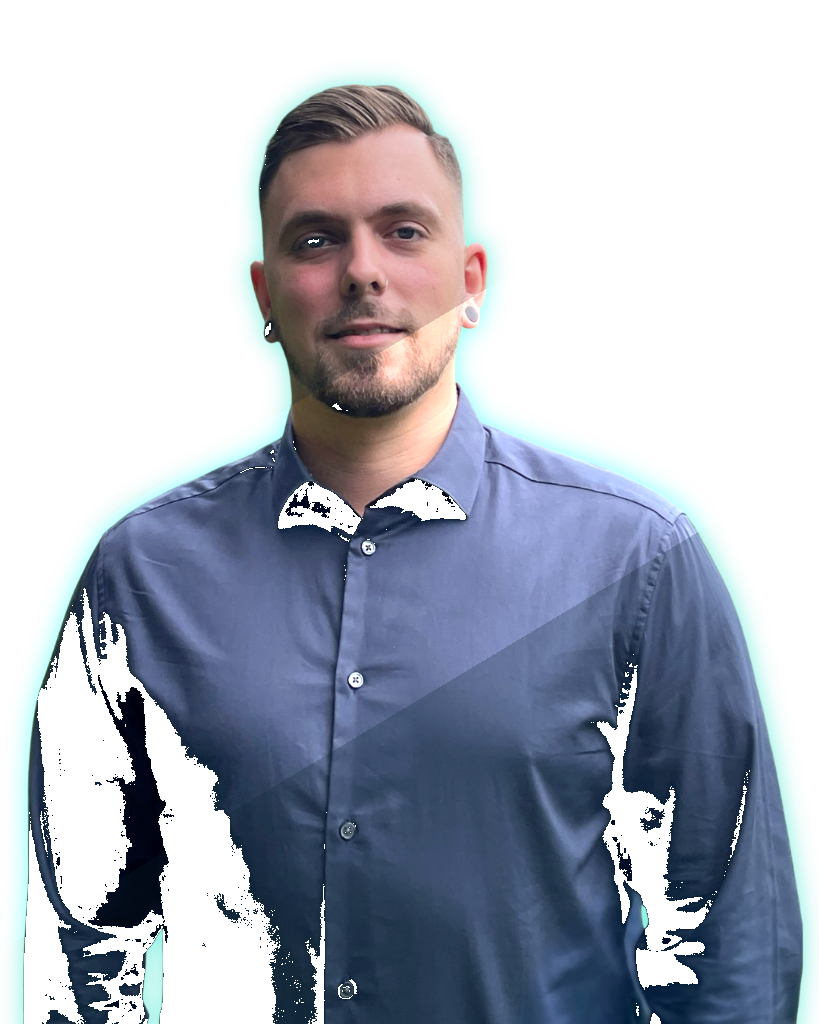
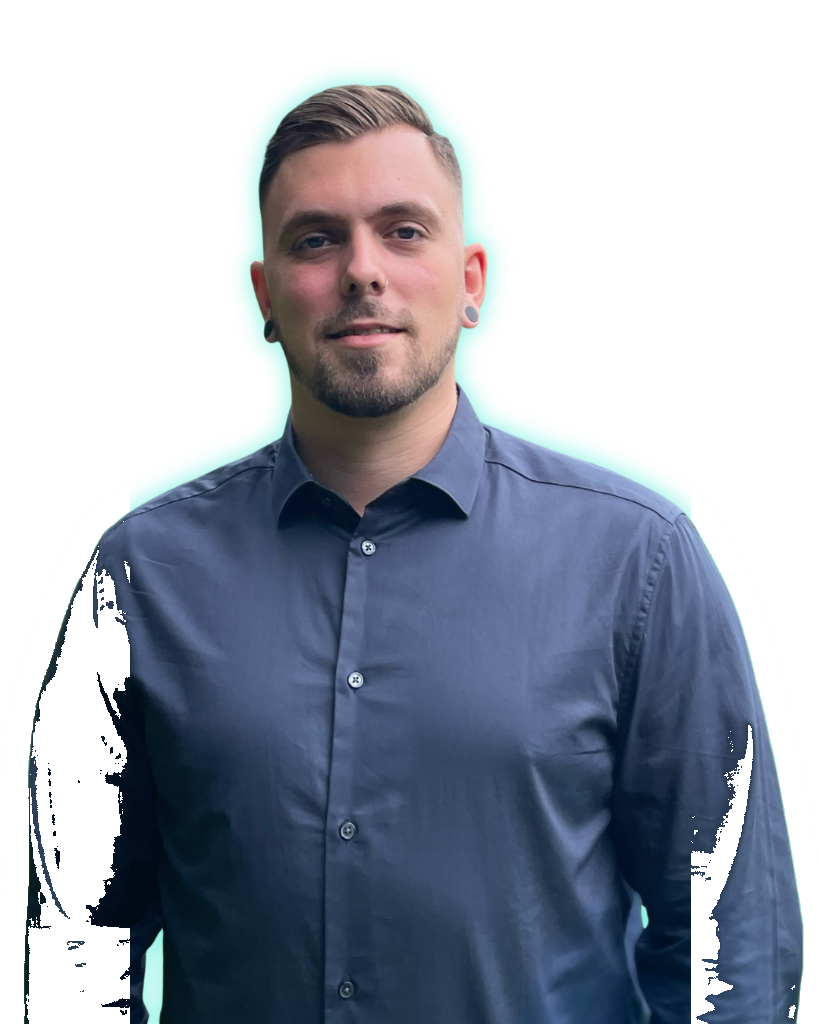
Restore original clean portrait image and eliminate all mathematical pixel artifacts, masks and overlay stripes

diff --git a/style.css b/style.css
@@ -657,8 +657,6 @@ button {
   transform: none !important;
 }
 
-
-
 .hero__portrait-badge-icon {
   font-size: 1.1rem;
 }
@@ -676,9 +674,7 @@ button {
   font-weight: 500;
 }
 
-.hero__portrait-wrapper:hover .hero__portrait-img {
-  transform: scale(1.03) translateY(-4px);
-}
+
 
 @keyframes float {
   0%, 100% { transform: translateY(0px); }
